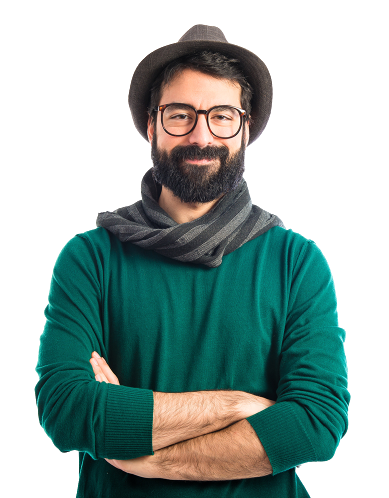
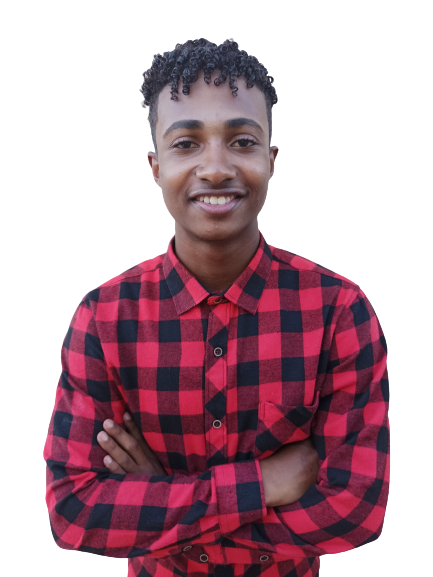
agregado de picture

diff --git a/index.html b/index.html
@@ -74,6 +74,8 @@
                     <div class="home-img">
                         <div class="img-box">
                             <img src="img/profile-img.png" alt="profile'img">
+                            <!-- <img src="img/profile-img2.png" alt="profile'img"> -->
+
                         </div>
                     </div>
 
@@ -94,6 +96,7 @@
                     <div class="about-img">
                         <div class="img-box">
                             <img src="img/about-img.png" alt="about img">
+
                         </div>
                     </div>
                     <div class="about-text">
